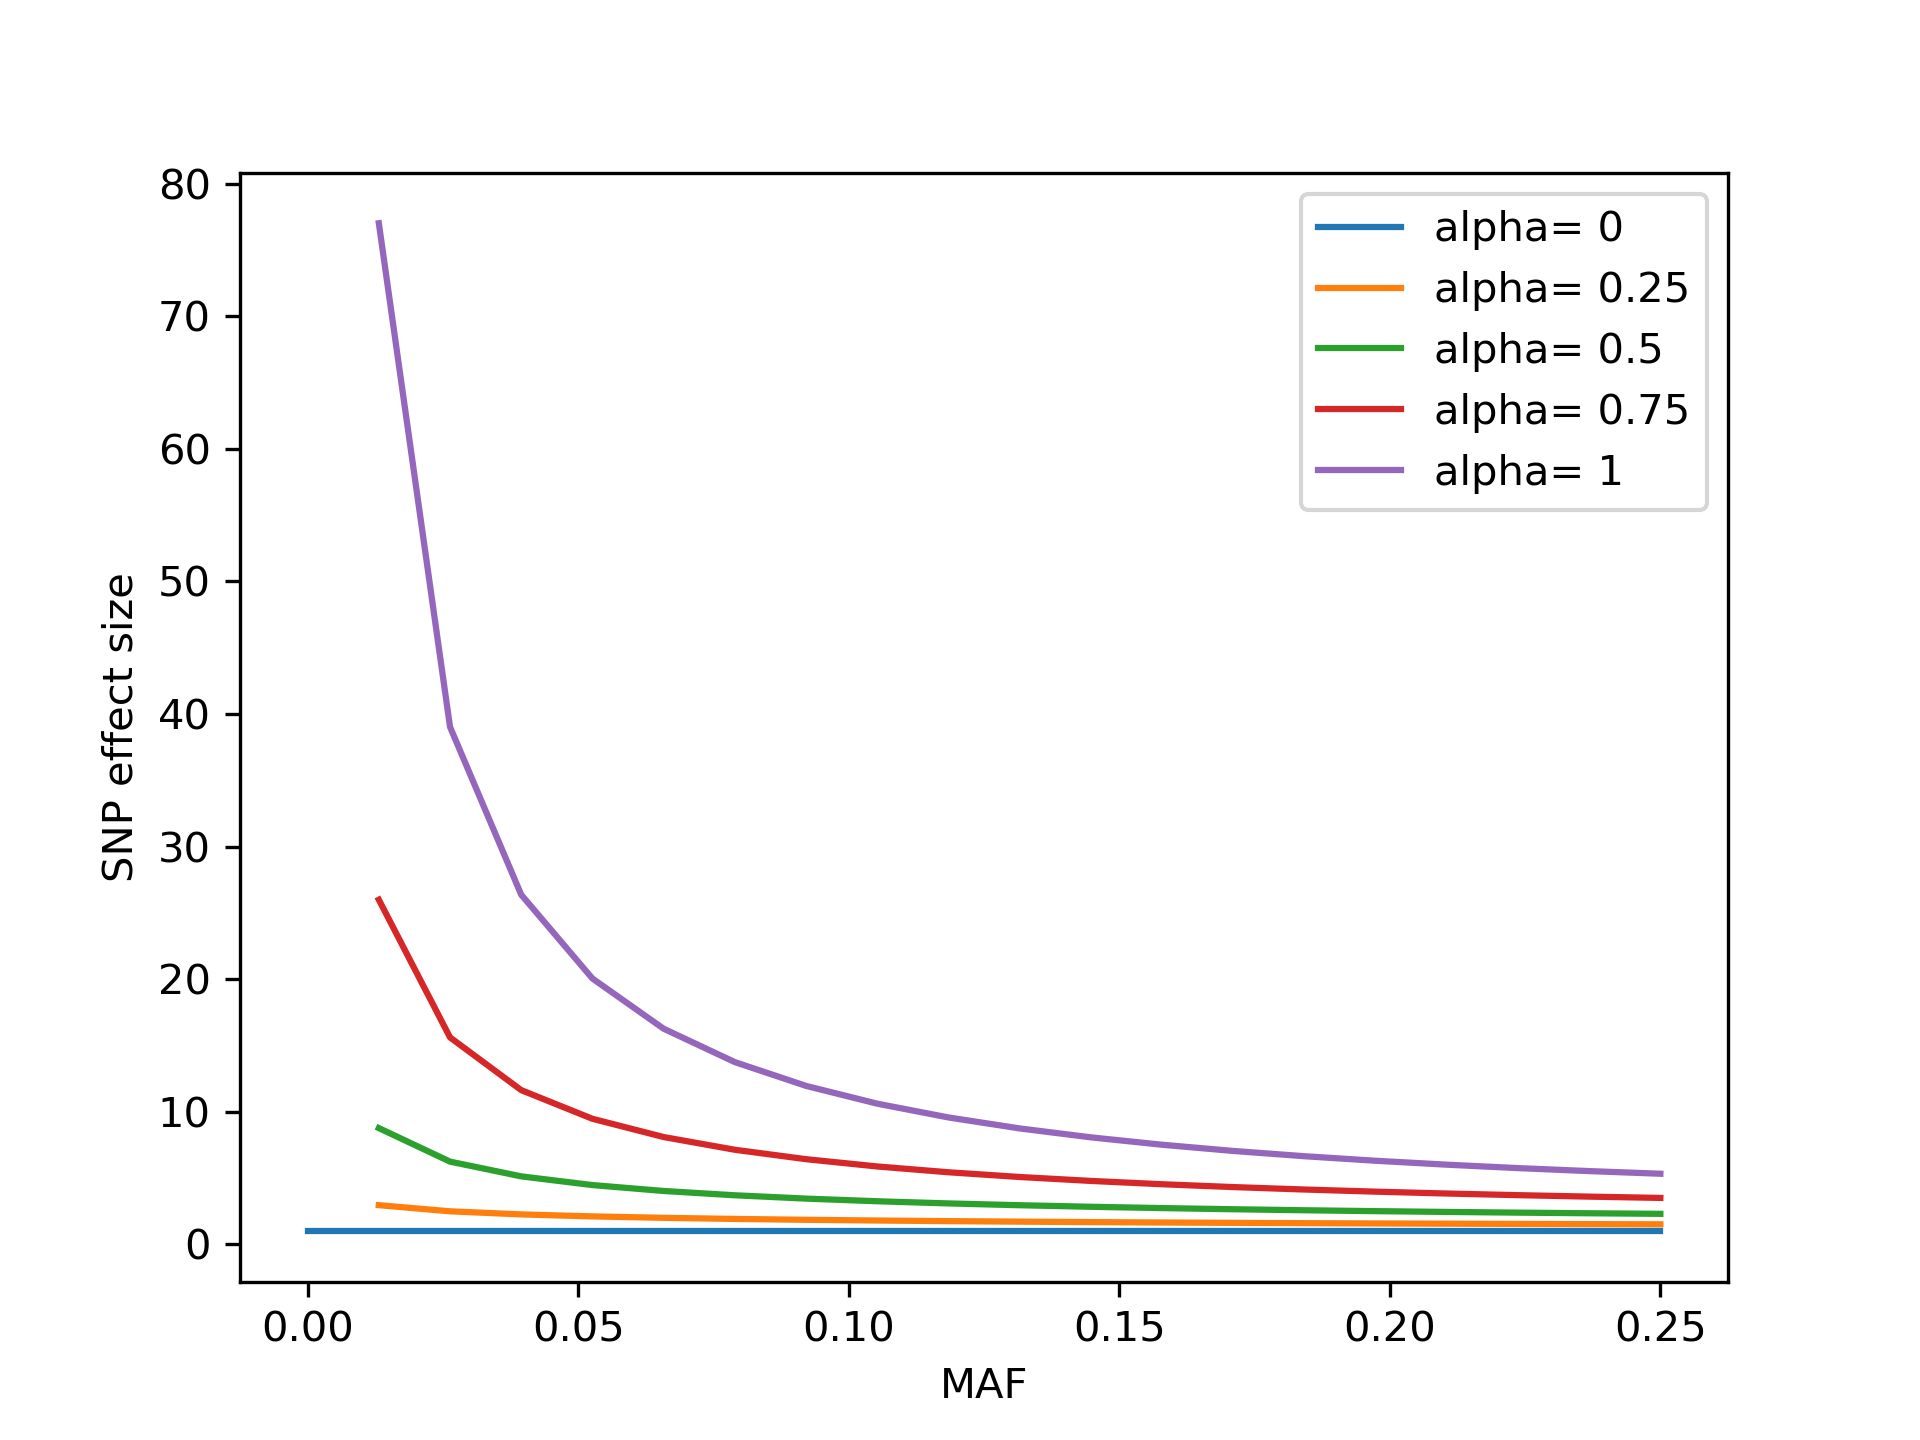
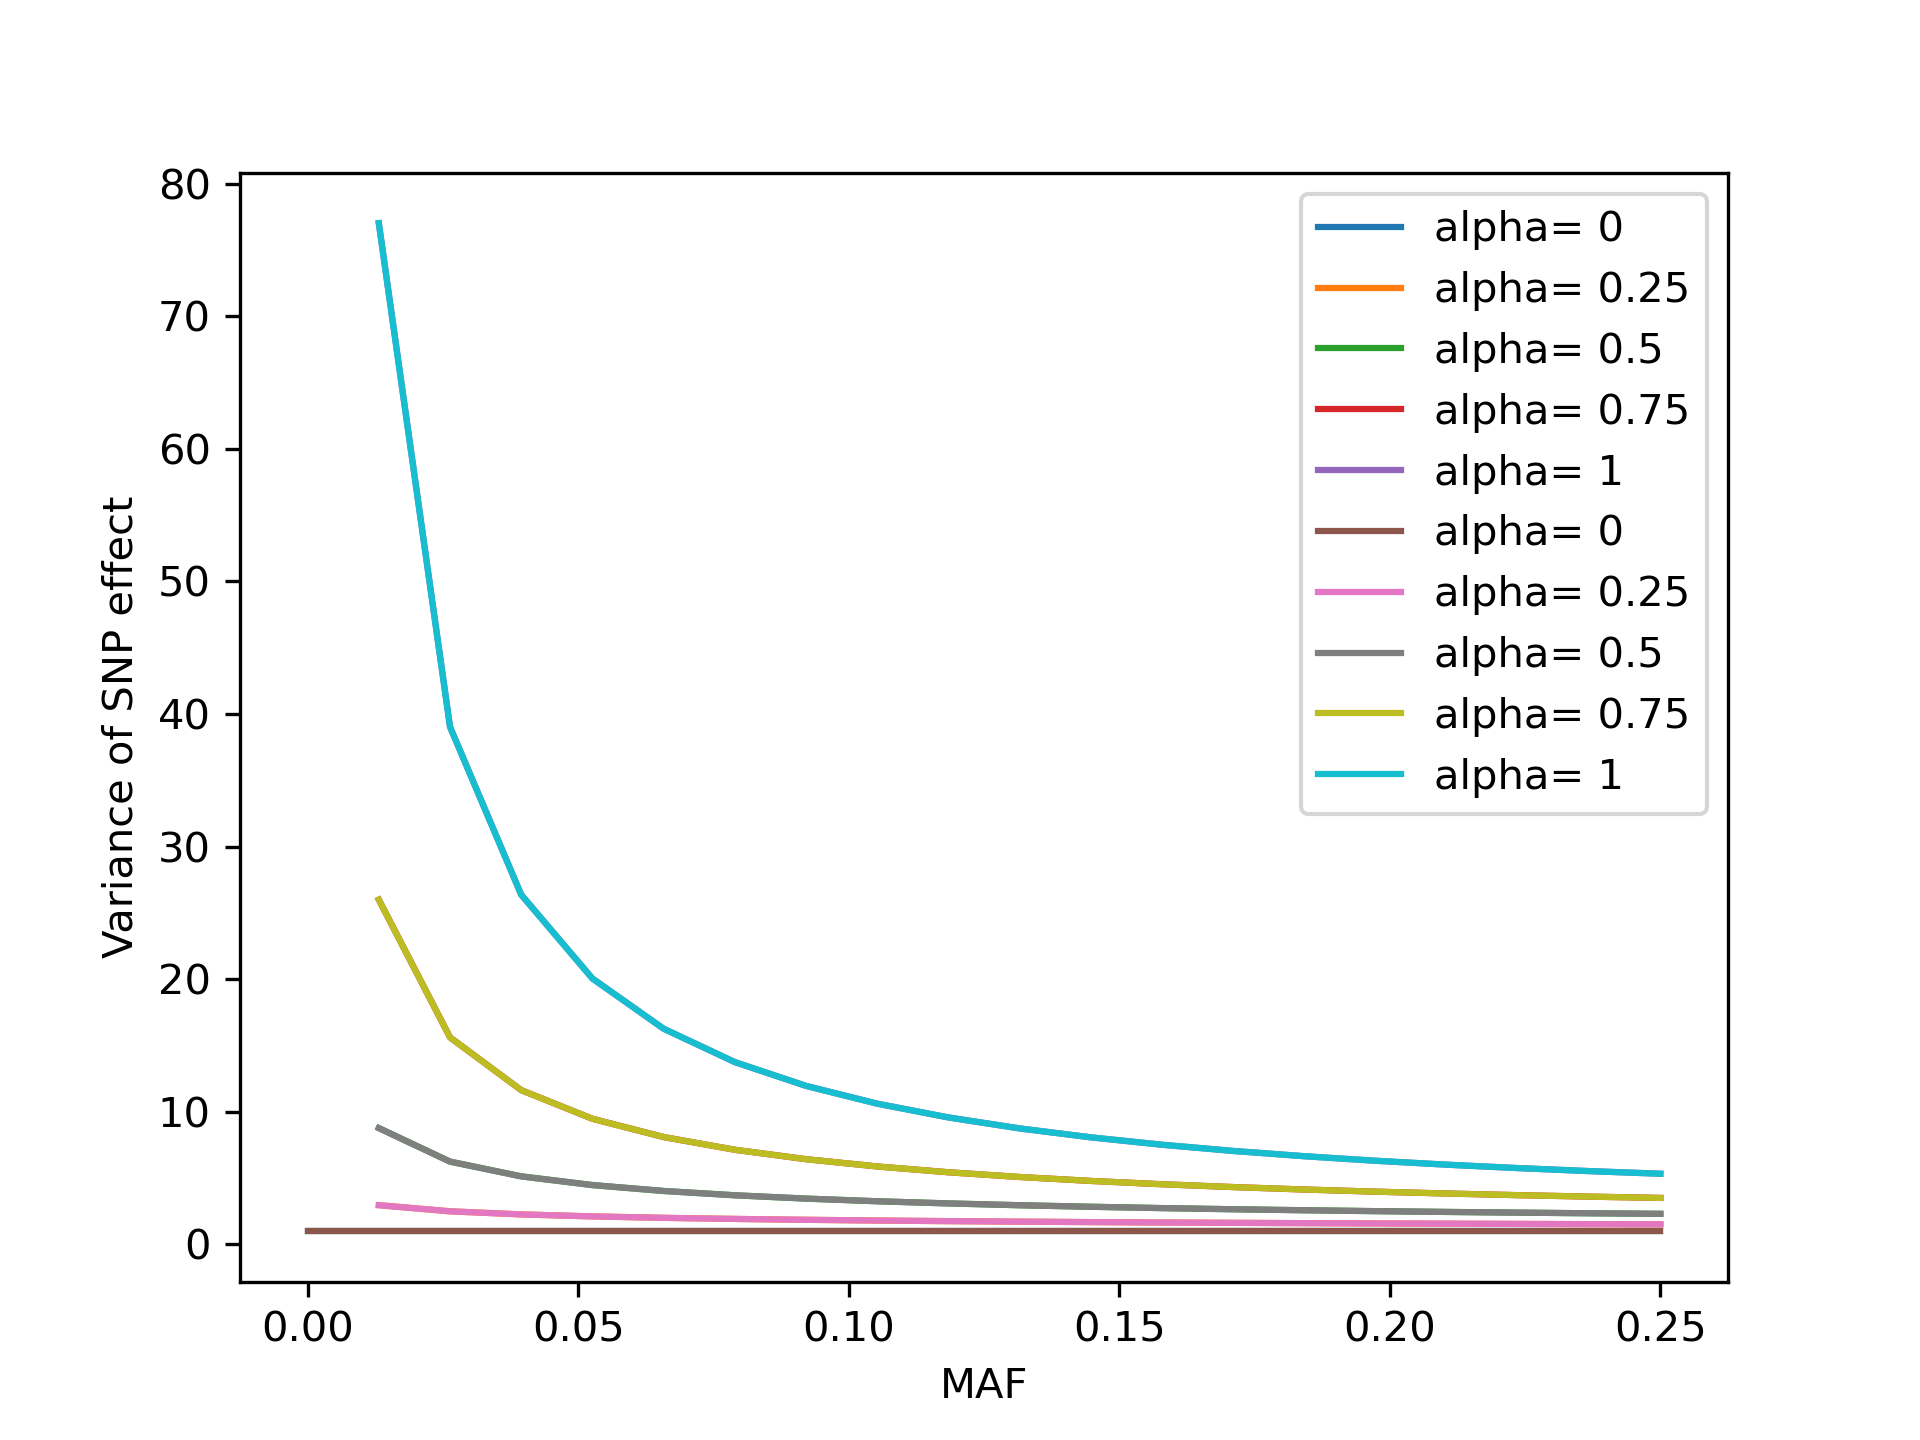
Redid simulated SNP effects figures

diff --git a/Simulator/pub_viz.py b/Simulator/pub_viz.py
@@ -1,6 +1,6 @@
 import numpy as np
 import matplotlib.pyplot as plt
-
+from Simulator.simulation_helpers.Sim_generator import pheno_simulator
 
 #%% vizualize different alphas on SNP effect size
 x = np.linspace(0, 0.25, 20)
@@ -9,7 +9,18 @@ for i in [0,0.25, 0.5, 0.75,1] :
     plt.plot(x, (x * (1-x))**(-i), label = "alpha= " + str(i)),
 plt.legend()
 plt.xlabel("MAF")
-plt.ylabel("SNP effect size")
-plt.savefig(fname = "docs/Figures/Sim_features/SNPalphaControl.png", dpi = 300, format = "png")
+plt.ylabel("Variance of SNP effect")
+plt.savefig(fname = "docs/Papers/Toolbox_paper/figures/SNPalphaControl.png", dpi = 300, format = "png")
+plt.clf()
 
+#%% vizualize example simulated effects
+
+sim = pheno_simulator(nsubjects= 1000, nSNPs = 1000)
+sim.full_sim()
+
+MAF = 0.5 - abs(0.5 - sim.genotypes[:, sim.causals].mean(axis= 0)/2)
+plt.scatter(x = MAF, y=  abs(sim.SNP_effects))
+plt.xlabel("MAF")
+plt.ylabel("SNP effect")
+plt.savefig(fname = "docs/Papers/Toolbox_paper/figures/simmedSNPeffects.png", dpi = 300, format = "png")
 
